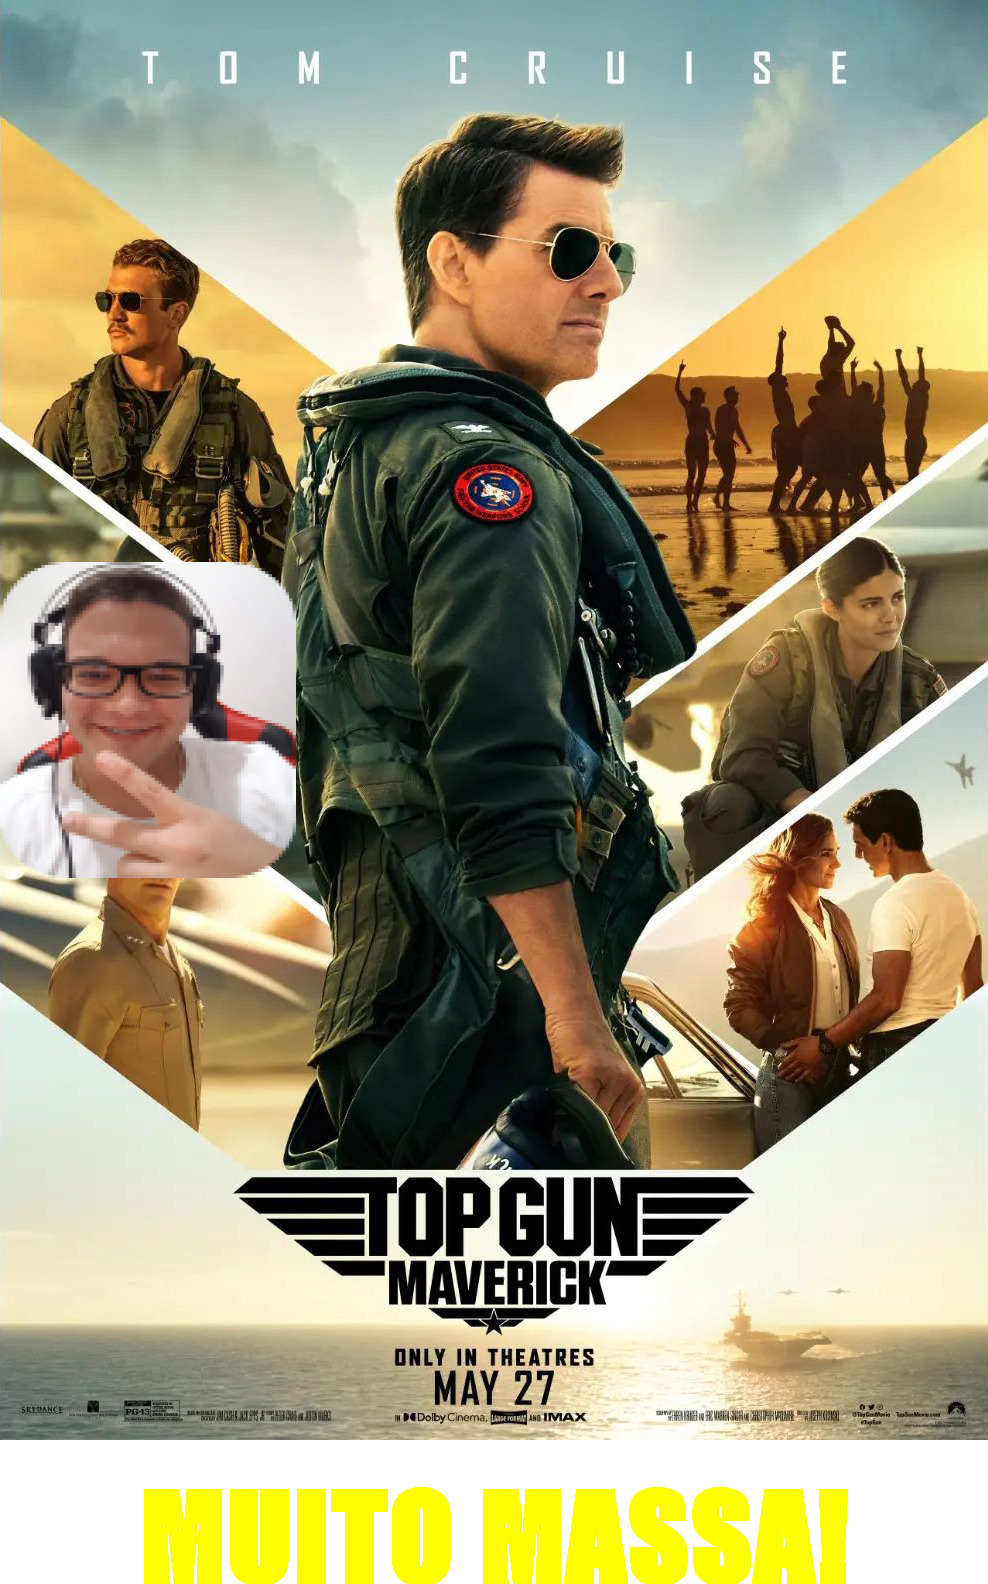
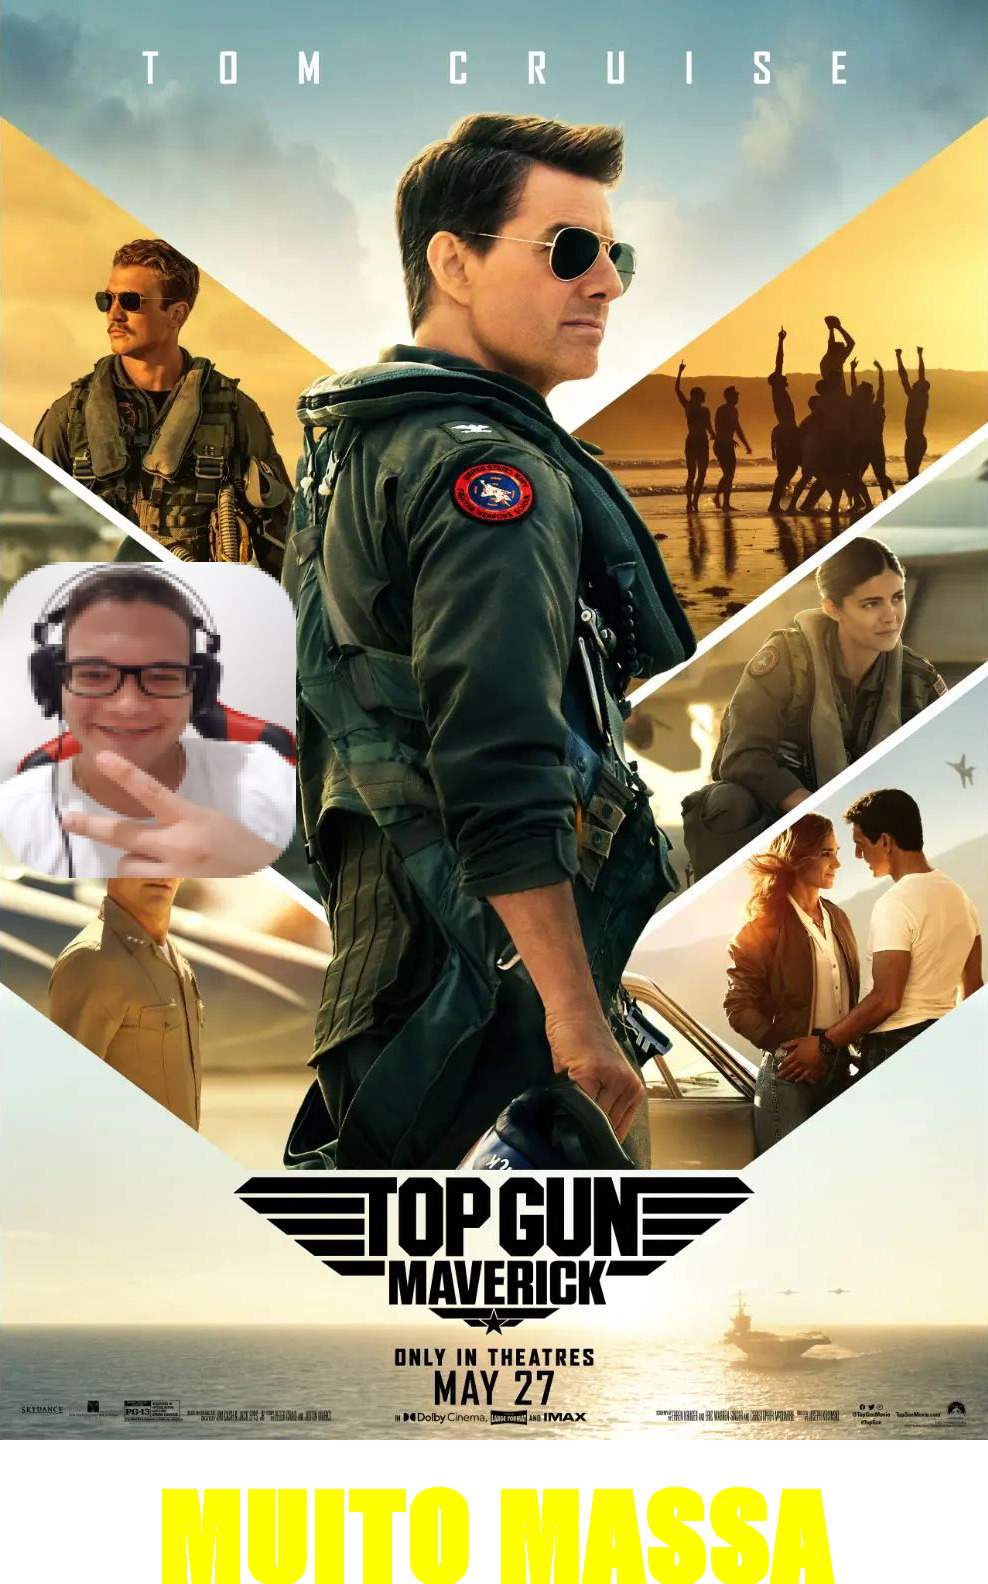
Arquivos de imagem atualizados

Changed region(s): [[0.1215, 0.928, 0.8806, 1.0]]

diff --git a/src/Aula2/FabricaDeStickers.java b/src/Aula2/FabricaDeStickers.java
@@ -36,13 +36,13 @@ public class FabricaDeStickers {
         BufferedImage minhaReacao = null;
         try {
             if (Double.parseDouble(filme.getNota()) > 8){
-                msg = "MUITO MASSA!";
+                msg = "MUITO MASSA";
                 minhaReacao = ImageIO.read( new FileInputStream("./.reacoes/muito-bom.png") );
              } else if (Double.parseDouble(filme.getNota()) > 7) {
-                 msg = "DA PRA DALE!";
+                 msg = "DA PRA DALE";
                  minhaReacao = ImageIO.read( new FileInputStream("./.reacoes/bom.png") );
              } else {
-                 msg = "ASSISTIVEL!";
+                 msg = "ASSISTIVEL";
                  minhaReacao = ImageIO.read( new FileInputStream("./.reacoes/assistivel.png") );
              }
         } catch (IOException e) {

diff --git a/README.md b/README.md
@@ -22,7 +22,7 @@ Nessa primeira dinâmica são requisitados dados a uma API de filmes e como resp
 
 
 #### **Resultado final da primeira aula após o tratamento dos dados:**
-![](https://raw.githubusercontent.com/lumedeirosn/assets-imersao-2-java-alura/main/resultado-da-aula-1.jpeg?token=GHSAT0AAAAAACAO7AOUZ4CWO5WUUYVCU5L2ZBCUEUQ)
+![](https://raw.githubusercontent.com/lumedeirosn/assets-imersao-2-java-alura/main/resultado-aula-1.png)
 
 ## Aula 2 ✔
 ### Gerando figurinhas para Whatsapp com Java
@@ -30,7 +30,7 @@ Nessa primeira dinâmica são requisitados dados a uma API de filmes e como resp
 Nessa etapa do projeto, foi elaborada a classe FrabricaDeStickers, responsável pala criação de stickers aproveitando-se de comportamentos polimórficos da classe File e InputSream, além de recursos da bilioteca Java AWT.
 
 #### **Resultado final da segunda aula após a edição das stickers:**
-![](https://raw.githubusercontent.com/lumedeirosn/assets-imersao-2-java-alura/main/resultado-da-aula-2.png)
+![](https://raw.githubusercontent.com/lumedeirosn/assets-imersao-2-java-alura/main/resultado-aula-2.png)
 
 # Tecnologias Utilizadas:
  [![logo-do-java.png](https://i.postimg.cc/gkzrfS4S/logo-do-java.png)]( https://www.oracle.com/java/)  
